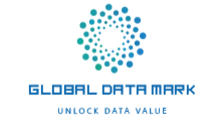
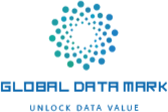
Mejora visual en el landing-crear cuenta excedia el espacio, check box funcional

Changed region(s): [[0.2679, 0.0, 0.7143, 0.6429], [0.0, 0.6964, 1.0, 0.8304], [0.1786, 0.8839, 0.8333, 1.0]]

diff --git a/frontend/src/features/landing/components/Landing.jsx b/frontend/src/features/landing/components/Landing.jsx
@@ -58,16 +58,16 @@ export default function Landing() {
     <div className="min-h-screen bg-white">
       {/* Navbar */}
       <header className="sticky top-0 z-50 bg-white/80 backdrop-blur-md border-b border-gray-200">
-        <div className="max-w-7xl mx-auto flex items-center justify-between px-4 md:px-8 lg:px-10 py-3 md:py-4">
+        <div className="max-w-7xl mx-auto flex items-center justify-between px-3 md:px-8 lg:px-10 py-3 md:py-4">
 
 
           <div className="flex items-center gap-2.5">
-            <div className="w-12 h-12 flex items-center justify-center">
+            <div className="w-10 h-10 sm:w-12 sm:h-12 flex items-center justify-center">
               <img src={logoDatamark} alt="DATAMARK" className="w-full h-full object-contain" />
             </div>
-            <span className="text-lg font-bold tracking-tight text-gray-900">DATAMARK</span>
+            <span className="text-lg font-bold tracking-tight text-gray-900 hidden sm:block">DATAMARK</span>
           </div>
-          <div className="flex items-center gap-2">
+          <div className="flex items-center gap-1 sm:gap-2">
             <Button variant="ghost" size="sm" to={ROUTES.LOGIN}>
               Iniciar sesión
             </Button>

diff --git a/frontend/src/features/dashboard/components/Dashboard.jsx b/frontend/src/features/dashboard/components/Dashboard.jsx
@@ -7,12 +7,10 @@ import { Skeleton } from '../../../shared/components/Skeleton';
 import { useAuth } from '../../../features/auth/hooks/useAuth';
 import { useInventory } from '../../../features/inventory/hooks/useInventory';
 import { useSales } from '../../../features/sales/hooks/useSales';
-import { useCustomers } from '../../../features/customers/hooks/useCustomers';
 import ROUTES from '../../../app/routes/route.config';
 import {
   formatCurrency,
   getPaymentMethodLabel,
-  getStockStatus,
   formatRelativeDate,
 } from '../../../shared/utils/formatters';
 
@@ -77,9 +75,8 @@ export default function Dashboard() {
   const { user } = useAuth();
   const { allProducts: products, isLoading: productsLoading } = useInventory();
   const { sales, isLoading: salesLoading } = useSales('all');
-  const { customers, isLoading: customersLoading } = useCustomers(user?.id);
 
-  const isLoading = productsLoading || salesLoading || customersLoading;
+  const isLoading = productsLoading || salesLoading;
 
   const metrics = useMemo(() => {
     const now = new Date();

diff --git a/frontend/src/features/onboarding/components/Onboarding.jsx b/frontend/src/features/onboarding/components/Onboarding.jsx
@@ -127,7 +127,6 @@ export default function Onboarding() {
                       ? 'border-blue-500 bg-blue-50'
                       : 'border-gray-200 hover:border-blue-300'
                       }`}
-                    onClick={() => handleCategoryToggle(category)}
                   >
                     <Checkbox
                       checked={selectedCategories.includes(category)}
